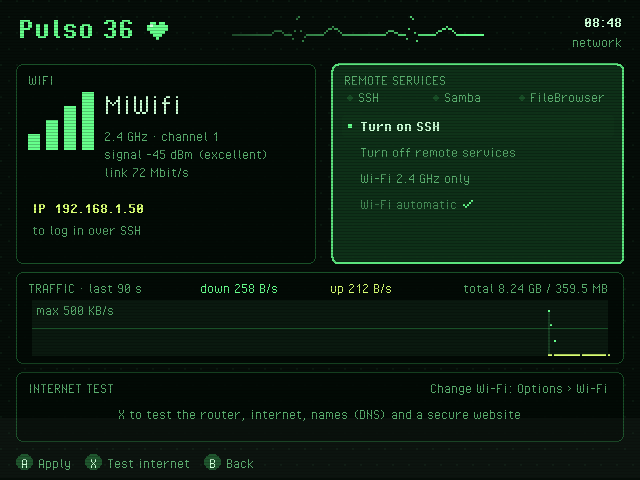
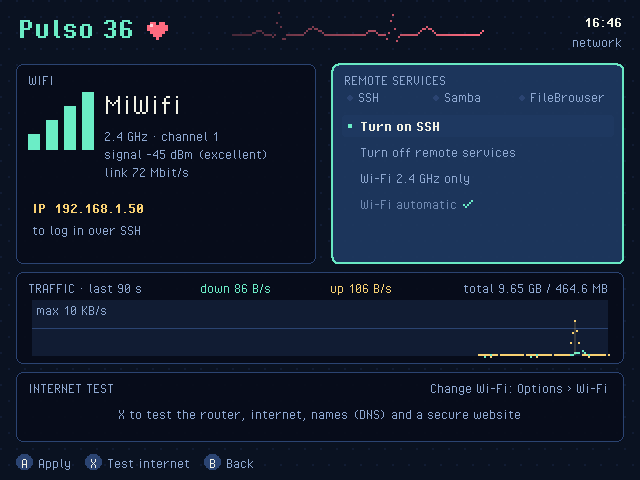
Capturas de todas las pantallas en tema nube y carátula para Ports
- README: tablero en tema nube arriba y una galería desplegable con las 8 pantallas y el tema fósforo (es/en).
- pulso36/cover.png: imagen para la lista de Ports; el README explica cómo agregarla a gamelist.xml.
- Capturas con procesos inventados de una consola (PULSO_PROCESOS, solo para desarrollo).

Co-autor: Claudio 🐾

diff --git a/README.es.md b/README.es.md
@@ -7,11 +7,35 @@ Monitor del sistema en pixel art para consolas portátiles con **ArkOS** o **dAr
 los programas abiertos, y permite algunos ajustes rápidos sin salir al menú. En español o en inglés: usa el idioma
 del menú (ver «Ajustes» para fijarlo).
 
-<p>
-  <img src="docs/es-tablero.png" width="32%" alt="Tablero">
-  <img src="docs/es-bateria.png" width="32%" alt="Batería">
-  <img src="docs/es-red.png" width="32%" alt="Red">
+<p align="center">
+  <img src="docs/es-tablero.png" width="75%" alt="Tablero (tema nube)">
 </p>
+
+<details>
+<summary><b>Todas las pantallas (clic para abrir)</b></summary>
+
+<table>
+  <tr>
+    <td align="center"><img src="docs/es-tablero.png" alt="Tablero"><br><sub>Tablero</sub></td>
+    <td align="center"><img src="docs/es-bateria.png" alt="Batería"><br><sub>Batería</sub></td>
+  </tr>
+  <tr>
+    <td align="center"><img src="docs/es-procesador.png" alt="Procesador"><br><sub>Procesador</sub></td>
+    <td align="center"><img src="docs/es-memoria.png" alt="Memoria"><br><sub>Memoria</sub></td>
+  </tr>
+  <tr>
+    <td align="center"><img src="docs/es-almacenamiento.png" alt="Almacenamiento"><br><sub>Almacenamiento</sub></td>
+    <td align="center"><img src="docs/es-red.png" alt="Red"><br><sub>Red</sub></td>
+  </tr>
+  <tr>
+    <td align="center"><img src="docs/es-procesos.png" alt="Procesos"><br><sub>Procesos</sub></td>
+    <td align="center"><img src="docs/es-energia.png" alt="Energía (START)"><br><sub>Energía (START)</sub></td>
+  </tr>
+  <tr>
+    <td align="center" colspan="2"><img src="docs/es-fosforo.png" width="50%" alt="Tema fósforo (Y cambia el tema)"><br><sub>Tema fósforo (Y cambia el tema)</sub></td>
+  </tr>
+</table>
+</details>
 
 ## Qué hace
 
@@ -56,6 +80,9 @@ Probado en: RG36H con ArkOS 2.0 (05312025) y con dArkOSRE (03082026).
 
 1. Copia `Pulso 36.sh` y la carpeta `pulso36/` a la carpeta `ports` de la tarjeta (`roms/ports` o `roms2/ports`).
 2. En el menú: **Ports → Pulso 36** (si no aparece, reinicia el menú o actualiza la lista de juegos).
+3. Opcional, para que tenga imagen y descripción en la lista de Ports: en `ports/gamelist.xml`, dentro de la entrada
+   con `<path>./Pulso 36.sh</path>`, agrega `<image>./pulso36/cover.png</image>` y `<desc>…</desc>`. Hazlo con el menú
+   cerrado (o reinícialo enseguida): EmulationStation reescribe ese archivo al salir.
 
 ## Quitar
 

diff --git a/README.md b/README.md
@@ -8,11 +8,35 @@ settings without leaving to the menu.
 
 The app is in English or Spanish: it follows the menu language (see "Settings" to set it).
 
-<p>
-  <img src="docs/en-tablero.png" width="32%" alt="Dashboard">
-  <img src="docs/en-bateria.png" width="32%" alt="Battery">
-  <img src="docs/en-red.png" width="32%" alt="Network">
+<p align="center">
+  <img src="docs/en-tablero.png" width="75%" alt="Dashboard (cloud theme)">
 </p>
+
+<details>
+<summary><b>All screens (click to open)</b></summary>
+
+<table>
+  <tr>
+    <td align="center"><img src="docs/en-tablero.png" alt="Dashboard"><br><sub>Dashboard</sub></td>
+    <td align="center"><img src="docs/en-bateria.png" alt="Battery"><br><sub>Battery</sub></td>
+  </tr>
+  <tr>
+    <td align="center"><img src="docs/en-procesador.png" alt="CPU"><br><sub>CPU</sub></td>
+    <td align="center"><img src="docs/en-memoria.png" alt="Memory"><br><sub>Memory</sub></td>
+  </tr>
+  <tr>
+    <td align="center"><img src="docs/en-almacenamiento.png" alt="Storage"><br><sub>Storage</sub></td>
+    <td align="center"><img src="docs/en-red.png" alt="Network"><br><sub>Network</sub></td>
+  </tr>
+  <tr>
+    <td align="center"><img src="docs/en-procesos.png" alt="Processes"><br><sub>Processes</sub></td>
+    <td align="center"><img src="docs/en-energia.png" alt="Power (START)"><br><sub>Power (START)</sub></td>
+  </tr>
+  <tr>
+    <td align="center" colspan="2"><img src="docs/en-fosforo.png" width="50%" alt="Phosphor theme (Y switches themes)"><br><sub>Phosphor theme (Y switches themes)</sub></td>
+  </tr>
+</table>
+</details>
 
 ## What it does
 
@@ -57,6 +81,9 @@ Tested on: RG36H with ArkOS 2.0 (05312025) and with dArkOSRE (03082026).
 
 1. Copy `Pulso 36.sh` and the `pulso36/` folder into the `ports` folder on the card (`roms/ports` or `roms2/ports`).
 2. In the menu: **Ports → Pulso 36** (if it does not show up, restart the menu or refresh the game list).
+3. Optional, for a picture and a description in the Ports list: add to `ports/gamelist.xml`, inside the entry with
+   `<path>./Pulso 36.sh</path>`, the lines `<image>./pulso36/cover.png</image>` and `<desc>…</desc>`. Do it with the
+   menu closed (or restart it right after): EmulationStation rewrites that file when it exits.
 
 ## Remove
 
